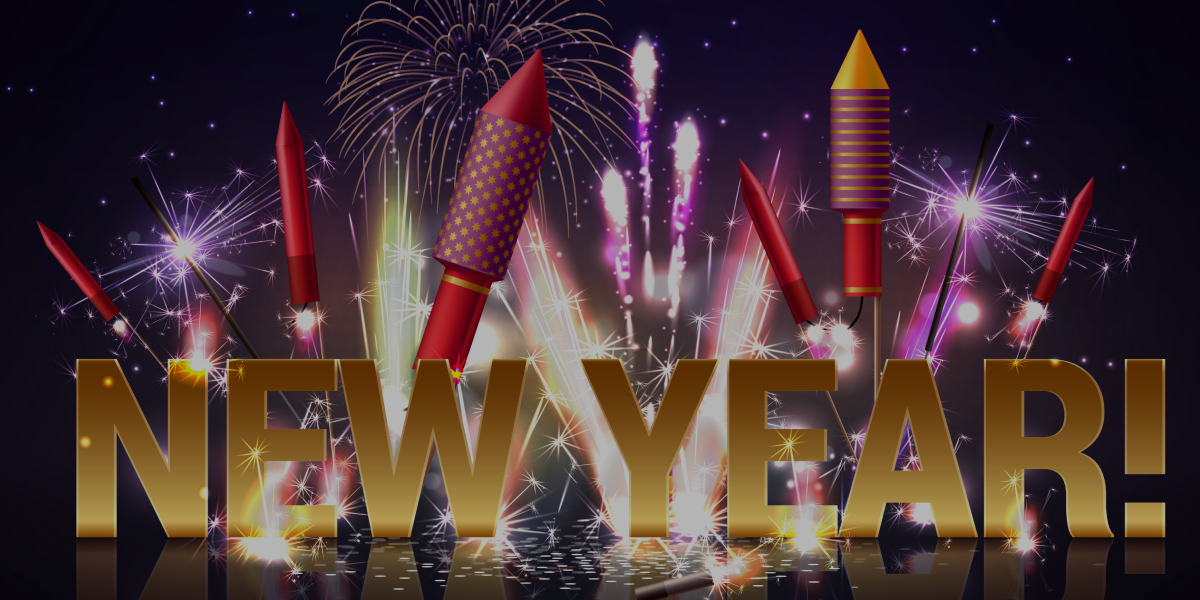
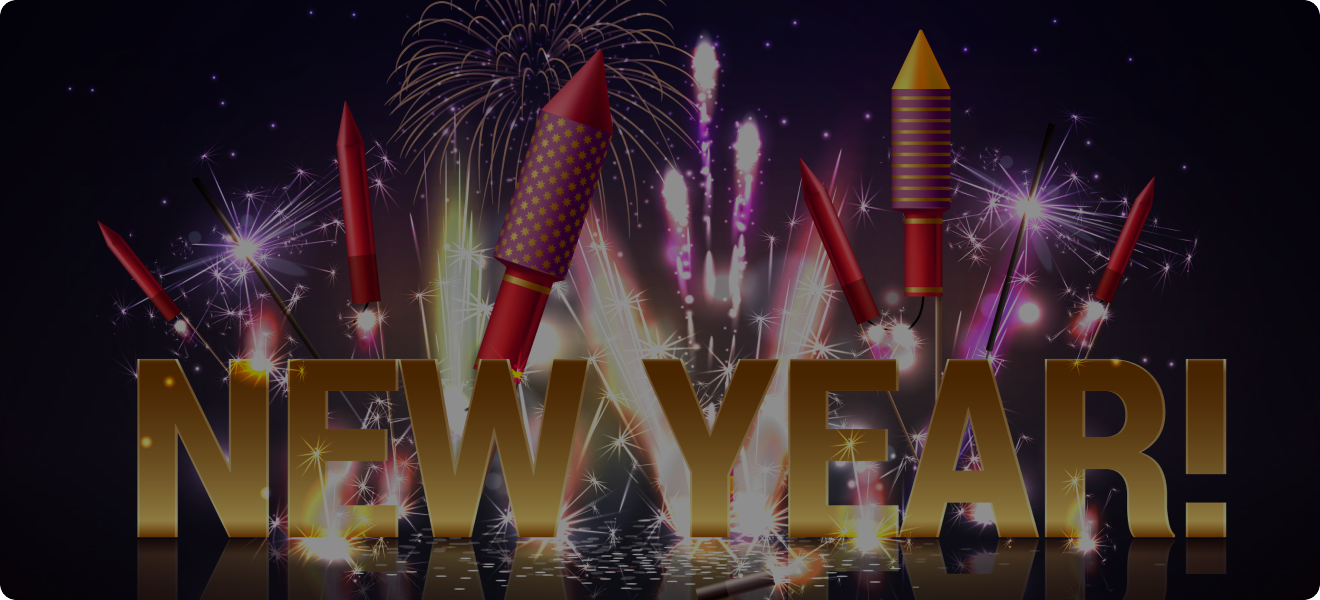
final push

diff --git a/index.html b/index.html
@@ -12,123 +12,137 @@
 </head>
 
 <body>
-    <section>
-        <header class="top-banner">
-            <div>
-                <h1>Happy New Year</h1>
+    <header>
+        <section>
+            <header class="top-banner">
                 <div>
-                    <h2>New Year Party </h2>
-                    <h2>Celebration</h2>
+                    <h1>Happy New Year</h1>
+                    <div>
+                        <h2>New Year Party </h2>
+                        <h2>Celebration</h2>
+                    </div>
+                    <div>
+            </header>
+        </section>
+    </header>
+    <main>
+        <section>
+            <div class="title-part">
+                <div class="title">
+                    <h1>65% OFF</h1>
+                    <h2>OUR HOLIDAY DEALS ARE BETTER</h2>
+                    <h3>ALL CATEGORIES</h3>
                 </div>
-                <div>
-        </header>
-    </section>
-    <section>
-        <div class="title-part">
-            <div class="title">
-                <h1>65% OFF</h1>
-                <h2>OUR HOLIDAY DEALS ARE BETTER</h2>
-                <h3>ALL CATEGORIES</h3>
-            </div>
-            <div class="middle-pic">
-                <img src="./Pic/New Year Photo.png" alt="">
-            </div>
-        </div>
-    </section>
-    <section>
-        <div class="midnight-part">
-            <div class="midnight-title">
-                <div>
-                    <h3>Welcome to midnight party</h3>
-                    <p>Step into the enchanting world of the "Midnight party," where the boundaries between reality and fantasy blur into a mesmerizing dance of shadows and lights.</p>
-                    <a href="">Join Now</a>
+                <div class="middle-pic">
+                    <img src="./Pic/New Year Photo.png" alt="">
                 </div>
             </div>
+        </section>
+        <section>
+            <div class="midnight-part">
+                <div class="midnight-title">
+                    <div>
+                        <h3>Welcome to midnight party</h3>
+                        <p>Step into the enchanting world of the "Midnight party," where the boundaries between reality
+                            and
+                            fantasy blur into a mesmerizing dance of shadows and lights.</p>
+                        <a href="">Join Now</a>
+                    </div>
+                </div>
+                <div>
+                    <img src="./Pic/Group 70.png" alt="">
+                </div>
+            </div>
+        </section>
+
+        <section>
+            <div class="Date">
+                <h3><span style="color: red;">Place:</span> New Park Hotel</h3>
+                <h3><span style="color: red;">Date:</span> 31 December Night 2023</h3>
+                <h3><span style="color: red;">Time:</span> Evening 7.30 pm to 12.30 am</h3>
+                <button>JOIN NOW</button>
+            </div>
+        </section>
+        <section>
+            <div class="offer-mix">
+                <div class="offer-title">
+                    <h3>NEW BEST OFFER</h3>
+                    <h1>Coming Soon</h1>
+                    <p>Exciting New Best Offer launching soon! Don't miss out on incredible deals. Stay tuned for
+                        unbeatable
+                    </p>
+                </div>
+                <div>
+                    <img src="./Pic/Ellipse 1.png" alt="">
+                </div>
+                <div class="happy">
+                    <h2 style="color: red;">2024</h2>
+                    <p>Every year give memorable moments, I wish you brighter and joyful year ahead!</p>
+                    <img src="./Pic/Group 96.png" alt="">
+                </div>
+            </div>
+        </section>
+        <section>
+            <div class="Sale">
+                <h2>WHAT IS FUNCTIONAL</h2>
+                <h1><span style="color: red;">Holidays</span> Sale 50%</h1>
+
+            </div>
+            <div class="Sale-p">
+                <div>
+                    <p> Unwrap joy this season with our holiday Sale! Enjoy a festive <br> 50% off on a wide range of
+                        products. Stop now and celebrate savings. <br> Hurry, the perfect gift awaits-shop now and
+                        spread
+                        the cheer!</p>
+                </div>
+            </div>
+        </section>
+        <section>
+            <div class="Discount">
+                <img src="./Pic/Group 75.png" alt="" width="580px" height="650px">
+                <img class="group" src="./Pic/Group 44.png" alt="" style="vertical-align:top">
+
+
+            </div>
+        </section>
+        <section>
+
             <div>
-                <img src="./Pic/Group 70.png" alt="">
-            </div>
-        </div>
-    </section>
+                <div class="card-title">
+                    <h2>THE BEST GIFTS</h2>
+                    <h1>Our Awesome Portfolio</h1>
+                    <p>Discover the perfects in our outstanding portfolio of curated gifts. Elevate your gifting
+                        experience
+                        with our handpicked selection of the best! </p>
+                </div>
+                <div class="card">
+                    <img src="./Pic/Rectangle 3.png" alt="">
+                    <img src="./Pic/Rectangle 4.png" alt="">
+                    <img src="./Pic/Rectangle 5.png" alt="">
+                    <img src="./Pic/Rectangle 6.png" alt="">
+                    <img src="./Pic/Rectangle 7.png" alt="">
+                    <img src="./Pic/Rectangle 8.png" alt="">
 
-    <section>
-        <div class="Date">
-            <h3><span style="color: red;">Place:</span> New Park Hotel</h3>
-            <h3><span style="color: red;">Date:</span> 31 December Night 2023</h3>
-            <h3><span style="color: red;">Time:</span> Evening 7.30 pm to 12.30 am</h3>
-            <button>JOIN NOW</button>
-        </div>
-    </section>
-    <section>
-        <div class="offer-mix">
-            <div class="offer-title">
-                <h3>NEW BEST OFFER</h3>
-                <h1>Coming Soon</h1>
-                <p>Exciting New Best Offer launching soon! Don't miss out on incredible deals. Stay tuned for unbeatable</p>
+                </div>
             </div>
-            <div>
-                <img src="./Pic/Ellipse 1.png" alt="">
+        </section>
+        <section>
+            <div class="form-part">
+                <img src="./Pic/Group 61.png" alt="">
+                <div class="form-title">
+                    <h1>Subscribe Newsletter</h1>
+                    <p>Unlock exclusive content, insights, and updates! Subscribe to our newsletter for a <br> curated
+                        experience delivered to your inbox.join us now! </p>
+                </div>
+                <div class="form">
+                    <form action="">
+                        <input type="text" placeholder="user@gmail.com">
+                    </form>
+                    <button>Subscribe</button>
+                </div>
             </div>
-            <div class="happy">
-                <h2 style="color: red;">2024</h2>
-                <p>Every year give memorable moments, I wish you brighter and joyful year ahead!</p>
-                <img src="./Pic/Group 96.png" alt="">
-            </div>
-        </div>
-    </section>
-    <section>
-        <div class="Sale">
-            <h2>WHAT IS FUNCTIONAL</h2>
-            <h1><span style="color: red;">Holidays</span> Sale 50%</h1>
-            
-        </div>
-        <div class="Sale-p">
-            <div>
-                <p> Unwrap joy this season with our holiday Sale! Enjoy a festive <br> 50% off on a wide range of products.  Stop now and celebrate savings. <br> Hurry, the perfect gift awaits-shop now and spread the cheer!</p>
-            </div>
-        </div>
-    </section>
-<section>
-    <div class="Discount">
-        <img src="./Pic/Group 75.png" alt="" width="580px" height="650px">
-            <img class="group" src="./Pic/Group 44.png" alt="" style="vertical-align:top">
-        
-
-    </div>
-</section>
-    <section>
-
-        <div>
-            <div class="card-title">
-                <h2>THE BEST GIFTS</h2>
-                <h1>Our Awesome Portfolio</h1>
-                <p>Discover the perfects in our outstanding portfolio of curated gifts. Elevate your gifting experience with our handpicked selection of the best! </p>
-            </div>
-            <div class="card">
-                <img src="./Pic/Rectangle 3.png" alt="">
-                <img src="./Pic/Rectangle 4.png" alt="">
-                <img src="./Pic/Rectangle 5.png" alt="">
-                <img src="./Pic/Rectangle 6.png" alt="">
-                <img src="./Pic/Rectangle 7.png" alt="">
-                <img src="./Pic/Rectangle 8.png" alt="">
-
-            </div>
-        </div>
-    </section>
-    <section>
-        <div class="form-part">
-            <img src="./Pic/Group 61.png" alt="">
-            <div class="form-title">
-                <h1>Subscribe Newsletter</h1>
-                <p>Unlock exclusive content, insights, and updates! Subscribe to our newsletter for a <br> curated experience delivered to your inbox.join us now! </p>
-            </div>
-            <div class="form">
-                <form action="">
-                    <input type="text" placeholder="user@gmail.com">
-                </form>
-                <button>Subscribe</button>
-            </div>
-        </div>
-    </section>
+        </section>
+    </main>
     </section>
     <footer>
         <div class="footer">

diff --git a/newyear.css b/newyear.css
@@ -10,14 +10,15 @@ section {
 
 .top-banner {
     background-image: url(./Pic/Banner\ Image.png);
-    background-repeat: no-repeat;
-    border-radius: 20px;
-    height: 600px;
-    width: 1200px;
-    text-align: center;
     display: flex;
-    font: bolder;
-
+    justify-content: center;
+    align-items: center;
+    background-repeat: no-repeat;
+    width: 1200px;
+    height: 600px;
+    background-size: 1200px;
+    background-position: center;
+    text-align: center;
     flex-direction: column;
     justify-content: center;
     align-items: center;
